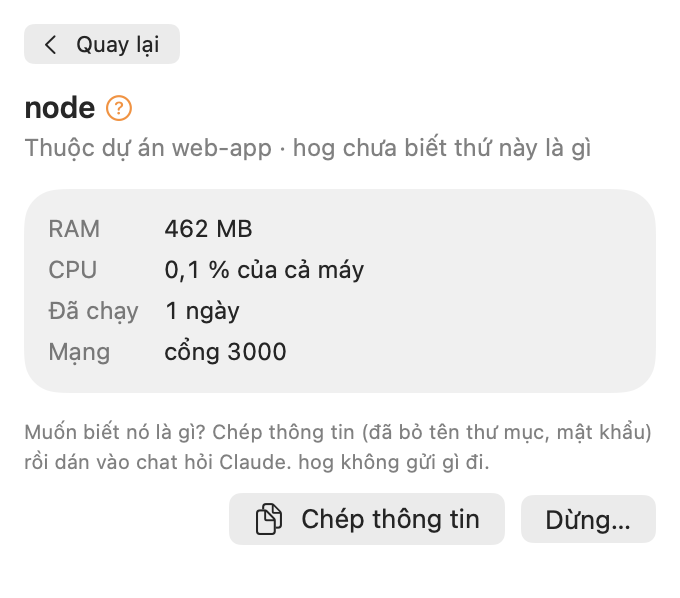
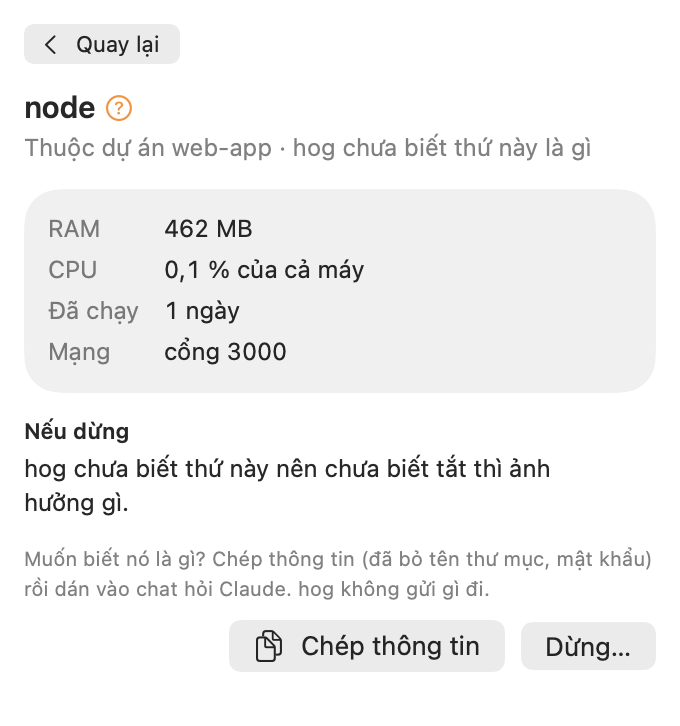
feat(app): every page says what stopping it costs
"Nếu dừng" on the page of any running thing, not only suggestions: its
label with what that means ("in use — hog asks again first"), then the
catalog's stop effect, or that hog does not know yet.

diff --git a/Sources/HogBar/Pages.swift b/Sources/HogBar/Pages.swift
@@ -204,15 +204,27 @@ struct EntryPage: View {
                 }
                 .font(.callout)
                 .padding(Theme.s3).frame(maxWidth: .infinity, alignment: .leading).module()
-                if let f = e.itemId.flatMap({ id in model.snapshot?.findings.first { $0.itemId == id } }) {
-                    VStack(alignment: .leading, spacing: Theme.s2) {
+                let f = e.itemId.flatMap { id in model.snapshot?.findings.first { $0.itemId == id } }
+                VStack(alignment: .leading, spacing: Theme.s2) {
+                    if let f {
                         Part(title: e.cleanup != nil ? model.t("Vì sao nên dọn", "Why clean it up") : model.t("hog thấy", "hog noticed")) {
                             Points(text: f.reason)
                         }
-                        Part(title: model.t("Tắt thì sao", "If stopped")) { Points(text: f.stop.effect) }
                     }
-                    .font(.callout)
+                    // Every page says what stopping costs, not only suggestions (user 2026-10-27: "nếu lỡ mình dừng thì sao? nên giải
+                    // thích mức độ của nó"): the label and what it means, then the catalog's effect — or that hog does not know.
+                    Part(title: model.t("Nếu dừng", "If stopped")) {
+                        if let s = e.safety {
+                            HStack(alignment: .firstTextBaseline, spacing: 6) {
+                                SafetyTag(s: s)
+                                Text(Format.safetyMeaning(s, model.lang)).foregroundStyle(.secondary).fixedSize(horizontal: false, vertical: true)
+                            }
+                        }
+                        Points(text: f?.stop.effect ?? e.stopEffect
+                               ?? model.t("hog chưa biết thứ này nên chưa biết tắt thì ảnh hưởng gì.", "hog does not know this yet, so it cannot say what stopping it does."))
+                    }
                 }
+                .font(.callout)
                 actions(e)
             } else {
                 Text(model.t("Không còn thấy thứ này ở lần quét mới nhất — có thể nó đã thoát.", "Not seen in the latest scan — it may have exited."))

diff --git a/Sources/HogCore/Running.swift b/Sources/HogCore/Running.swift
@@ -63,6 +63,8 @@ public struct Overview: Sendable, Equatable {
         /// What it is, in one sentence of the catalog ("Vẽ đồ hoạ bằng GPU cho mọi cửa sổ VS Code."); nil when hog does not know.
         public var summary: String? = nil
         public var safety: Safety? = nil
+        /// What stopping it does, from the catalog; nil when hog does not know (the page then says so).
+        public var stopEffect: String? = nil
     }
 
     public struct Group: Sendable, Equatable, Identifiable {
@@ -201,7 +203,8 @@ public struct Overview: Sendable, Equatable {
                 // Not in the catalog and not explained by an app (a Chrome helper is Chrome): something to ask about.
                 unknown: catalogName == nil && kind != .app && Self.isUnknownProgram(p),
                 cleanup: item.flatMap { cleanupOf[$0.id] },
-                summary: (p.catalogId.value ?? item?.catalogId.value).flatMap { catalog.entries[$0]?.summary.text(lang) })
+                summary: (p.catalogId.value ?? item?.catalogId.value).flatMap { catalog.entries[$0]?.summary.text(lang) },
+                stopEffect: (p.catalogId.value ?? item?.catalogId.value).flatMap { catalog.entries[$0]?.stopEffect.text(lang) })
             e.pids.append(p.pid)
             if let s = safety(item, catalogId: p.catalogId.value ?? item?.catalogId.value) { e.safety = max(e.safety ?? s, s) }
             if let b = p.footprintBytes.value { e.bytes = (e.bytes ?? 0) + b }

diff --git a/Sources/HogCore/Data/Glossary.swift b/Sources/HogCore/Data/Glossary.swift
@@ -166,6 +166,20 @@ public enum Format {
         }
     }
 
+    /// What a label means for the person about to press "Dừng…" (the page of a thing, user 2026-10-27).
+    public static func safetyMeaning(_ s: Overview.Safety, _ lang: Lang) -> String {
+        switch (s, lang) {
+        case (.keep, .vi): "hog không tắt thứ này: nó là hog, thứ đang chạy hog, hoặc của macOS."
+        case (.inUse, .vi): "Đang được dùng (thuộc phiên Claude, cửa sổ hoặc app đang làm việc) — hog hỏi lại trước khi dừng."
+        case (.canStop, .vi): "Đo thấy không ai dùng — hog có thể tắt."
+        case (.restarts, .vi): "Tắt cũng vô ích: app của nó bật lại ngay, không lấy lại được RAM."
+        case (.keep, .en): "hog never stops this: it is hog, something running hog, or part of macOS."
+        case (.inUse, .en): "In use (part of a Claude session, window or app that is working) — hog asks again before stopping it."
+        case (.canStop, .en): "Measured as unused — hog can stop it."
+        case (.restarts, .en): "Pointless to stop: its app starts it again at once, no memory comes back."
+        }
+    }
+
     /// "53 °C": whole degrees, sensors of one chip already differ by more than that.
     public static func celsius(_ c: Double, _ lang: Lang) -> String { number(c, 0, lang) + " °C" }
 

diff --git a/Tests/HogCoreTests/OverviewTests.swift b/Tests/HogCoreTests/OverviewTests.swift
@@ -219,5 +219,11 @@ import Testing
         #expect(entries["grep"].map { $0.safety == nil } == true, "no conclusion, no label")
         #expect(Overview.Safety.keep > .restarts && Overview.Safety.restarts > .inUse && Overview.Safety.inUse > .canStop)
         #expect(Format.safety(.canStop, .vi) == "có thể tắt" && Format.safety(.restarts, .vi) == "tắt vô ích")
+        // Every page says what stopping costs, with or without a suggestion: the catalog's effect, none when hog does not know.
+        #expect(entries["TypeScript language server"]?.stopEffect?.contains("starts it again") == true, "no finding, still explained")
+        #expect(entries["node"].map { $0.stopEffect == nil } == true)
+        for s in [Overview.Safety.keep, .restarts, .inUse, .canStop] {
+            for lang in Lang.allCases { #expect(!Format.safetyMeaning(s, lang).isEmpty && Format.safetyMeaning(s, lang).count <= 150) }
+        }
     }
 }

diff --git a/docs/design/design-system.md b/docs/design/design-system.md
@@ -53,7 +53,7 @@ macos 27"*.
 | Khối "Nên dọn" | `CleanupRow`: ô chọn (hoặc ✋ khi chỉ đóng tay) · tên · dự án · `ReasonTag` · RAM · ›; nút "Dọn N thứ" | cả dòng → `EntryPage` của thứ đó (container không có dòng → hộp dừng); "Dọn N thứ" → `BatchSheet` |
 | `GroupRow` | mũi tên · icon (app thật / `folder.fill` / hệ thống) · tên · tóm tắt · RAM · CPU | mở/gập từng thứ (`EntryRow`) |
 | `EntryRow` | tên · `?` nếu chưa rõ · cổng · `×N` · nhãn · RAM · CPU. Nhãn (`SafetyTag`, chỉ từ kết luận hog đã có, mạnh nhất thắng khi dòng gộp nhiều tiến trình): **đừng tắt** (đỏ, bảo vệ cứng) > **tắt vô ích** (xám, danh mục `respawns: by-parent`) > **đang dùng** (xanh dương, bảo vệ mềm) > **có thể tắt** (xanh lá, mục "Nên dọn" được tick sẵn); mục "Nên dọn" khác giữ lý do ("rảnh 4 giờ"); không có kết luận → không nhãn | → `EntryPage` |
-| `EntryPage` | tên · thuộc đâu · **là gì** (`Points`: một ý → đoạn, nhiều ý → gạch đầu dòng) · số đo + **Lệnh** (đã làm sạch như "Chép thông tin", chụp gửi được) · **Vì sao nên dọn** và **Tắt thì sao** (mỗi phần một tiêu đề `Part`, nội dung `Points`) · "Chép thông tin" **chỉ khi hog chưa rõ** thứ đó (thứ đã biết thì câu "là gì" đã giải thích, không có gì để hỏi — chủ dự án 2026-10-27), "Dừng…"/"Cách đóng" (không có ở dòng `×N`) | |
+| `EntryPage` | tên · thuộc đâu · **là gì** (`Points`: một ý → đoạn, nhiều ý → gạch đầu dòng) · số đo + **Lệnh** (đã làm sạch như "Chép thông tin", chụp gửi được) · **Vì sao nên dọn** (khi có đề xuất) và **Nếu dừng** (mọi trang: nhãn mức độ + câu nghĩa của nhãn + "tắt thì sao" của danh mục, hoặc "hog chưa biết…"; mỗi phần một tiêu đề `Part`, nội dung `Points`) · "Chép thông tin" **chỉ khi hog chưa rõ** thứ đó (thứ đã biết thì câu "là gì" đã giải thích, không có gì để hỏi — chủ dự án 2026-10-27), "Dừng…"/"Cách đóng" (không có ở dòng `×N`) | |
 | `AllPage` | ô tìm + mọi nhóm, mọi thứ; "macOS và hệ thống" → Đo chi tiết | |
 | `BatchSheet` / `StopSheet` | hộp nền đặc của cửa sổ, kính chỉ ở viền (`rSheet`), trên nền tối mờ 40 %, nằm **ngoài** `GlassEffectContainer` của trang (kính trong suốt và hoà với khối phía sau làm chữ đè lên nhau — chủ dự án 2026-10-27); tiêu đề có RAM lấy lại; từng thứ: an toàn / hỏi trước (kèm lý do của cổng) / bị chặn | |
 | `Footer` | giờ quét · RAM của hog · `arrow.clockwise` · `gearshape` | |
